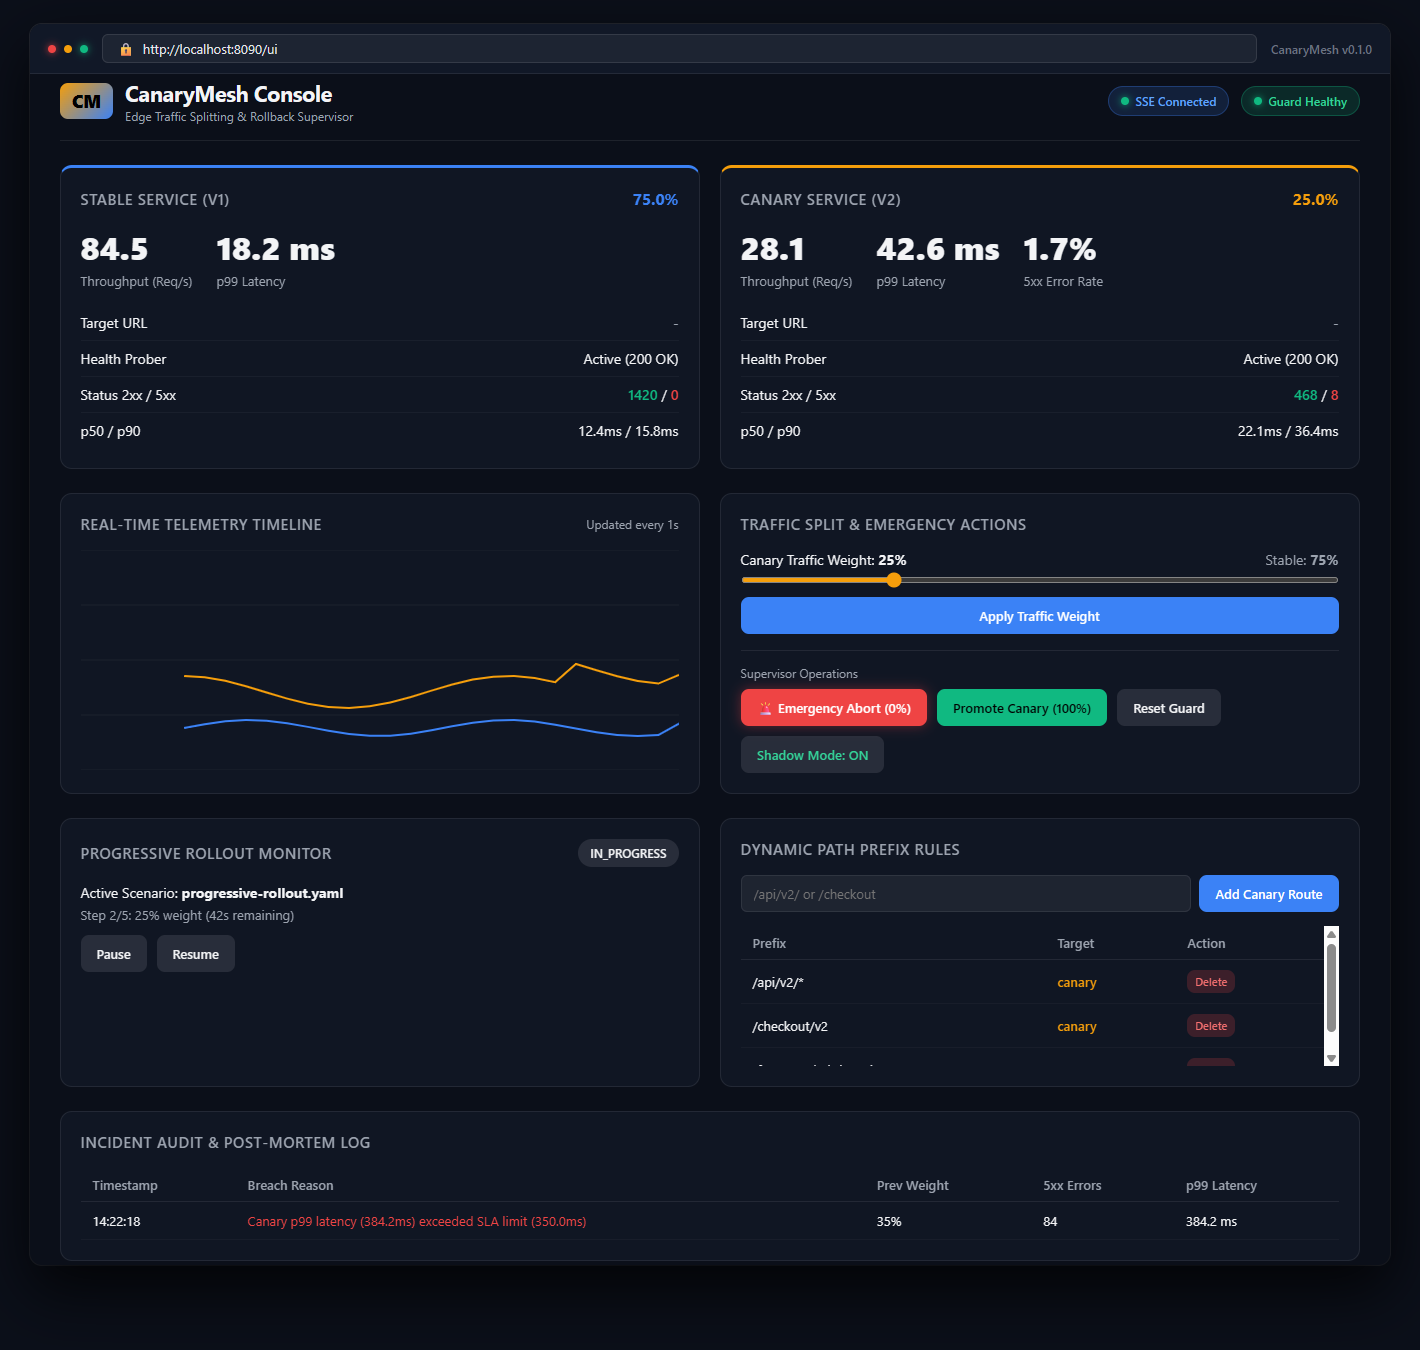
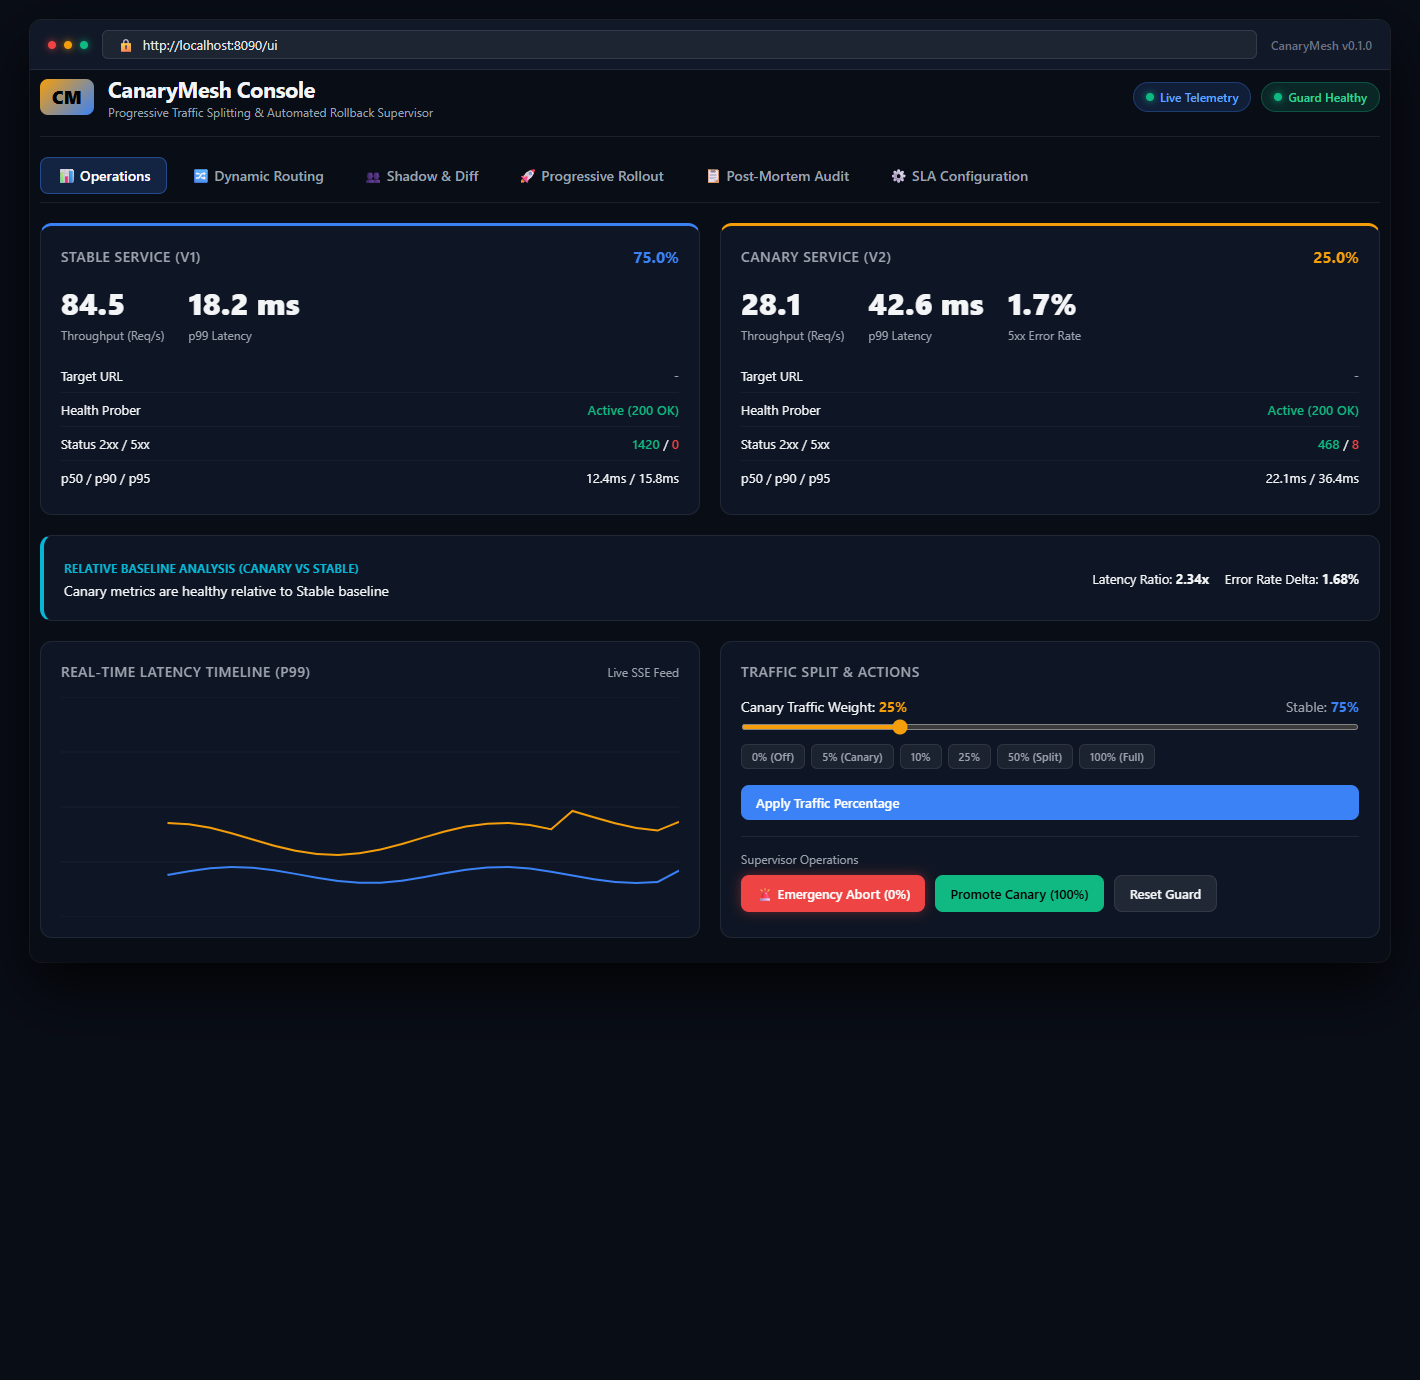
docs: update architecture, cli-reference, routing, and refresh ui screenshots

diff --git a/scripts/generate_web_console_shot.py b/scripts/generate_web_console_shot.py
@@ -9,10 +9,8 @@ STATIC_HTML = BASE_DIR / "src" / "canarymesh" / "api" / "static" / "index.html"
 OUT_FILE = BASE_DIR / "docs" / "images" / "web_console.png"
 TEMP_HTML = BASE_DIR / "docs" / "images" / "temp_console.html"
 
-# Read original index.html
 raw_html = STATIC_HTML.read_text(encoding="utf-8")
 
-# Create standalone version with pre-baked real telemetry and browser chrome frame
 chart_points_js = """
     for (let i = 0; i < 24; i++) {
       historyPoints.push({
@@ -21,16 +19,7 @@ chart_points_js = """
         errRate: i > 18 ? 2.1 : 0.4
       });
     }
-    
-    // Populate active rules
-    const rulesTbody = document.querySelector('#rulesTable tbody');
-    rulesTbody.innerHTML = `
-      <tr><td><code>/api/v2/*</code></td><td><span style="color: var(--accent-yellow); font-weight:600;">canary</span></td><td><button style="padding: 4px 8px; font-size: 11px; background: rgba(239,68,68,0.2); color: #f87171;">Delete</button></td></tr>
-      <tr><td><code>/checkout/v2</code></td><td><span style="color: var(--accent-yellow); font-weight:600;">canary</span></td><td><button style="padding: 4px 8px; font-size: 11px; background: rgba(239,68,68,0.2); color: #f87171;">Delete</button></td></tr>
-      <tr><td><code>/features/dark-launch</code></td><td><span style="color: var(--accent-yellow); font-weight:600;">canary</span></td><td><button style="padding: 4px 8px; font-size: 11px; background: rgba(239,68,68,0.2); color: #f87171;">Delete</button></td></tr>
-    `;
 
-    // Populate active telemetry
     applyTelemetryData({
       canary_weight: 25.0,
       telemetry: {
@@ -39,6 +28,11 @@ chart_points_js = """
       },
       guard: {
         state: 'HEALTHY',
+        comparative: {
+          summary: 'Canary metrics are healthy relative to Stable baseline',
+          latency_ratio: 2.34,
+          error_diff_percent: 1.68
+        },
         recent_trips: [
           {
             timestamp: "2026-09-10T14:22:18.000Z",
@@ -54,19 +48,21 @@ chart_points_js = """
         scenario_name: 'progressive-rollout.yaml',
         total_steps: 5,
         current_step: { step_number: 2, weight: 25.0, remaining_seconds: 42 }
+      },
+      shadow: {
+        enabled: true,
+        shadow_percentage: 100,
+        total_shadowed_requests: 1240,
+        total_shadow_errors: 12,
+        parity_rate_percent: 99.0
       }
     });
 
-    document.getElementById('shadowToggleBtn').innerText = 'Shadow Mode: ON';
-    document.getElementById('shadowToggleBtn').style.borderColor = 'var(--accent-green)';
-    document.getElementById('shadowToggleBtn').style.color = '#34d399';
     drawChart();
 """
 
-# Replace init() call with standalone mock initialization
 modified_html = raw_html.replace("init();", chart_points_js)
 
-# Wrap in an elegant modern browser container
 styled_page = f"""<!DOCTYPE html>
 <html>
 <head>
@@ -84,7 +80,7 @@ styled_page = f"""<!DOCTYPE html>
       font-family: -apple-system, BlinkMacSystemFont, "Segoe UI", Roboto, sans-serif;
     }}
     .browser-frame {{
-      background: #0b0f19;
+      background: #090d16;
       border-radius: 12px;
       box-shadow: 0 25px 60px rgba(0,0,0,0.8), 0 0 0 1px rgba(255,255,255,0.1);
       overflow: hidden;
@@ -157,7 +153,7 @@ TEMP_HTML.write_text(styled_page, encoding="utf-8")
 cmd = [
     EDGE_PATH,
     "--headless=new",
-    "--window-size=1420,1350",
+    "--window-size=1420,1380",
     "--default-background-color=030712",
     f"--screenshot={OUT_FILE.resolve()}",
     TEMP_HTML.resolve().as_uri(),

diff --git a/docs/architecture.md b/docs/architecture.md
@@ -1,15 +1,15 @@
 # Architecture
 
-CanaryMesh operates as an edge reverse proxy and automated rollback controller. It inspects incoming HTTP requests, selects either the stable (v1) or canary (v2) upstream service, streams traffic without buffering payloads, and monitors upstream responses in real time.
+CanaryMesh operates as an edge reverse proxy and automated rollback controller. It inspects incoming HTTP and WebSocket requests, selects either the stable (v1) or canary (v2) upstream service, streams traffic without buffering payloads, and monitors upstream responses in real time.
 
 ```mermaid
 graph TD
-    Client[HTTP Client] -->|Request| Proxy[CanaryMesh Data Plane :8080]
+    Client[HTTP & WebSocket Client] -->|Request + W3C Tracing| Proxy[CanaryMesh Data Plane :8080]
     Proxy --> Router[Traffic Router]
     Router -->|Path / Weight / Headers / Cookie| Forwarder[Streaming Forwarder]
     Forwarder -->|Stable traffic| Stable[Upstream v1 Stable]
     Forwarder -->|Canary traffic| Canary[Upstream v2 Canary]
-    Forwarder -.->|Async Mirroring| Shadow[Traffic Shadow Engine]
+    Forwarder -.->|Async Mirroring + Diff| Shadow[Traffic Shadow & Diff Engine]
     Shadow -.->|Duplicate Request| Canary
     
     Forwarder -->|Status & Latency| Telemetry[Sliding-Window Telemetry 60s]
@@ -17,8 +17,8 @@ graph TD
     Prober[Active Health Prober] -->|/healthz Checks| Stable
     Prober -->|/healthz Checks| Canary
     Prober -->|Heartbeat Failure| Guard
-    Guard -->|SLA Breach Detected| Router
-    Guard -->|Incident Alert| Webhook[Alert Dispatcher: Discord / Slack / Webhook]
+    Guard -->|Absolute or Relative SLA Breach| Router
+    Guard -->|Incident Alert| Webhook[Alert Dispatcher: Discord / Slack / Telegram / PagerDuty / Webhook]
     Guard -->|Generate Report| PostMortem[Post-Mortem Engine: Markdown]
     
     API[Control Plane API :8090] --> Router
@@ -32,43 +32,41 @@ graph TD
 
 ### Data plane
 
-The data plane listens on port 8080 by default. It uses an asynchronous streaming client built with HTTPX. Because requests and responses stream directly between the client and upstream targets, memory consumption remains flat regardless of body size.
+The data plane listens on port 8080 by default. It uses an asynchronous streaming client built with HTTPX and native WebSocket forwarding. Because requests and responses stream directly between the client and upstream targets, memory consumption remains flat regardless of payload size.
 
-The proxy strips standard hop-by-hop headers, including `connection`, `transfer-encoding`, and `keep-alive`, before forwarding. It appends standard proxy headers (`X-Forwarded-For`, `X-Forwarded-Proto`) and an identification header (`X-Canary-Routed`).
+The proxy strips standard hop-by-hop headers, including `connection`, `transfer-encoding`, `keep-alive`, and `content-length` for chunked streams, before forwarding. It propagates standard proxy headers (`X-Forwarded-For`, `X-Forwarded-Proto`), an identification header (`X-Canary-Routed`), `X-Request-ID`, and standard W3C `traceparent` context.
 
-### Asynchronous traffic shadowing (dark launching)
+### Asynchronous traffic shadowing and response diffing
 
 When enabled, the proxy clones incoming client requests and mirrors them to the canary upstream asynchronously. 
-The client receives the response from the primary upstream immediately without waiting for the mirrored execution. The background response is consumed and recorded into shadow telemetry, allowing teams to test real production load without risking customer experience.
+The client receives the response from the primary upstream immediately without waiting for the mirrored execution. The background response is consumed and compared against the stable response, tracking response status matches and calculating a live **Response Parity Rate (%)**.
 
 ### Control plane and web operations console
 
 The control plane runs independently on port 8090. It provides:
-- REST management endpoints for weights, routing rules, shadow traffic, and incidents.
-- An embedded Web Operations Console at `/ui`, featuring live telemetry charts, weight controls, emergency abort triggers, and dynamic rule management.
+- REST management endpoints for weights, routing rules (path and header matchers), shadow diffing, SLA parameters, and incident post-mortems.
+- An embedded Web Operations Console at `/ui` with tabbed operations: Live Telemetry, Dynamic Routing Studio, Shadow & Diff Inspector, Rollout Workflow, Incident Post-Mortems, and SLA Configuration.
 - A Prometheus `/metrics` scraper target.
-- A Server-Sent Events stream (`/api/v1/canary/live`) broadcasting state and metrics every second.
+- A Server-Sent Events stream (`/api/v1/canary/live`) broadcasting state, comparative baseline metrics, and telemetry every second.
 
-Separating the control plane from the data plane prevents management traffic and metrics scraping from competing with client request processing.
+### Telemetry engine with reservoir sampling
 
-### Telemetry engine
+CanaryMesh tracks telemetry in a sliding 60-second window. The window consists of 1-second slots that record success counts (2xx, 3xx), client errors (4xx), server errors (5xx), and individual latency observations with reservoir sampling ($O(1)$ memory overhead).
 
-CanaryMesh tracks telemetry in a sliding 60-second window. The window consists of 1-second slots that record success counts (2xx, 3xx), client errors (4xx), server errors (5xx), and individual latency observations.
-
-Percentiles (p50, p90, p95, p99) and error percentages are calculated on demand from the active slots. Older slots are pruned during recording and snapshotting to keep memory use bounded.
+Percentiles (p50, p90, p95, p99) and relative degradation deltas are calculated on demand from the active slots. Older slots are pruned during recording and snapshotting to keep memory use bounded.
 
 ### Active health probing
 
 The health prober runs background polling against configured upstream health endpoints (e.g. `/healthz`). It tracks consecutive successes and failures:
 - If a canary node fails health checks consecutively, the prober flags it as unhealthy.
-- The rollback guard evaluates prober status and immediately trips a rollback if the canary becomes unreachable, avoiding having to wait for client traffic to fail.
+- The rollback guard evaluates prober status and immediately trips a rollback if the canary becomes unreachable.
 - The progressive rollout engine checks prober health before advancing each deployment stage.
 
 ### Rollback guard and incident post-mortem
 
-The rollback guard evaluates canary telemetry once per second. If the canary error rate or p99 latency exceeds configured thresholds over the active sample window, or if the active health prober detects failure, the guard trips.
+The rollback guard evaluates canary telemetry once per second against both absolute thresholds and relative degradation vs the Stable baseline.
 
 When tripped:
 1. Canary weight is immediately forced to 0%.
-2. Alerts are dispatched to configured channels (Discord Embeds, Slack Block Kit, or generic JSON webhooks).
-3. The Post-Mortem engine captures a snapshot of the telemetry at the exact moment of failure and generates a detailed incident markdown document in `incidents/inc-<id>.md`.
+2. Alerts are dispatched to configured channels (Discord Embeds, Slack Block Kit, Telegram Bot, PagerDuty Events v2, or generic JSON webhooks).
+3. The Post-Mortem engine captures a snapshot of the telemetry at the exact moment of failure and generates a detailed incident markdown document in `incidents/inc-<id>.md` available for direct download via the Web Console or API.

diff --git a/docs/telemetry-and-guard.md b/docs/telemetry-and-guard.md
@@ -1,61 +1,46 @@
 # Telemetry and automated rollback
 
-CanaryMesh tracks real-time response data using an in-memory sliding window and evaluates service level agreement (SLA) boundaries in the background.
+CanaryMesh tracks real-time response data using an in-memory sliding window with reservoir sampling and evaluates service level agreement (SLA) boundaries in the background.
 
 ## Telemetry collection
 
 Every HTTP exchange records response metrics immediately after headers are received from the upstream target:
 
 * Status category (2xx, 3xx, 4xx, 5xx)
-* Round-trip duration in milliseconds
+* Round-trip duration in milliseconds (sampled per second using Algorithm R reservoir sampling)
 * Upstream target name (stable or canary)
 
-Observations are placed into 1-second buckets inside a 60-second circular buffer. During each snapshot, data older than 60 seconds is discarded.
+Observations are placed into 1-second buckets inside a 60-second circular buffer. During each snapshot, data older than 60 seconds is pruned automatically.
 
 ### Computed metrics
 
 * **RPS**: Active requests divided by the window duration (60s).
 * **5xx error rate**: Percentage of 5xx responses out of all requests in the window.
-* **Latency quantiles**: Nearest-rank percentiles calculated over sorted latency observations: p50, p90, p95, and p99.
+* **Latency quantiles**: Nearest-rank percentiles calculated over bounded latency observations: p50, p90, p95, and p99.
+* **Comparative degradation**: Real-time ratio of Canary p99 to Stable baseline p99 and error rate difference.
 
 ## Rollback guard
 
-The rollback guard runs an asynchronous loop every second. It checks canary metrics against configured limits:
+The rollback guard runs an asynchronous loop every second. It checks canary metrics against both absolute limits and relative baseline degradation:
 
 | Parameter | Default | Description |
 | :--- | :--- | :--- |
 | `max_error_rate_percent` | `1.0%` | Maximum allowable 5xx server error rate |
 | `max_p99_latency_ms` | `350.0 ms` | Maximum allowable 99th percentile latency |
 | `min_sample_size` | `10` | Minimum requests required before checking boundaries |
+| `enable_relative_analysis`| `true` | Enable comparative regression checks against Stable baseline |
+| `max_relative_latency_ratio` | `2.0x` | Max ratio of Canary p99 to Stable p99 |
+| `max_relative_error_diff_percent`| `3.0%` | Max difference between Canary 5xx% and Stable 5xx% |
+| `enable_probation` | `false` | Enable automatic recovery into probation mode after cooldown |
 
 ### Tripping mechanism
 
 To avoid false alarms from single outliers during low traffic, the guard waits until `min_sample_size` requests appear in the window.
 
-When a threshold is exceeded:
+When an absolute or relative threshold is exceeded:
 
 1. Canary traffic is immediately set to `0.0%`.
 2. The guard state changes from `HEALTHY` to `TRIPPED`.
-3. An incident event is added to the internal audit log.
-4. An alert payload is sent to all configured webhooks.
-
-### Incident payload
-
-```json
-{
-  "event": "EMERGENCY_ROLLBACK",
-  "service": "canarymesh",
-  "timestamp": "2026-09-10T11:45:00.123456+00:00",
-  "reason": "Canary 5xx error rate (14.2%) exceeded threshold (1.0%)",
-  "previous_canary_weight": 25.0,
-  "current_canary_weight": 0.0,
-  "metrics": {
-    "total_requests": 28,
-    "status_2xx": 24,
-    "status_5xx": 4,
-    "error_rate_percent": 14.29,
-    "p99_ms": 32.5
-  },
-  "text": "[CanaryMesh Alert] Emergency Rollback Triggered: Canary 5xx error rate (14.2%) exceeded threshold (1.0%). Canary weight shifted from 25.0% to 0%."
-}
-```
+3. An incident event is recorded in memory and written to `incidents/inc-<id>.md`.
+4. Alert payloads are formatted and dispatched to all configured notification channels (Discord, Slack, Telegram, PagerDuty, or custom webhooks).
+5. The incident post-mortem markdown report can be downloaded directly from the Web Console or API.

diff --git a/docs/routing-strategies.md b/docs/routing-strategies.md
@@ -1,6 +1,6 @@
 # Routing strategies
 
-CanaryMesh determines the destination of each request using an ordered evaluation process.
+CanaryMesh determines the destination of each request using an ordered evaluation process across HTTP and WebSocket streams.
 
 ## Evaluation order
 
@@ -8,7 +8,7 @@ When a request arrives, CanaryMesh evaluates routing criteria in the following s
 
 1. **Path prefix rules**:
    If the request URL path starts with a registered path prefix (for example `/api/v2/*` or `/checkout`), the request routes to the designated target (`canary` or `stable`).
-   Path rules can be configured in the YAML file or added dynamically at runtime via the control API (`POST /api/v1/canary/rules/path`).
+   Path rules can be configured in settings or added dynamically at runtime via `POST /api/v1/canary/rules/path`.
 
 2. **Query parameter override**:
    If the query string contains `canary=true` or `canary=1`, the request goes to the canary service. If it contains `canary=false` or `canary=0`, it goes to the stable service.
@@ -17,7 +17,8 @@ When a request arrives, CanaryMesh evaluates routing criteria in the following s
    If the request header `X-Canary` is set to `true`, `1`, or `yes`, the request routes to the canary service. If set to `false`, `0`, or `no`, it routes to the stable service.
 
 4. **Pattern header rules**:
-   Custom rules configured in settings or YAML are evaluated against headers. For example, a rule matching `X-User-Group: beta-.*` directs matching traffic to the canary service.
+   Custom rules evaluated against request headers. For example, a regex rule matching `X-User-Group: beta-.*` or `X-Tier: internal` directs matching traffic to the canary service.
+   Header rules can be created dynamically via `POST /api/v1/canary/rules/header`.
 
 5. **Sticky cookie session**:
    If a `canary_session` cookie is present, CanaryMesh calculates a hash of the session string modulo 100. If the resulting bucket number is lower than the active canary weight percentage, the request goes to the canary service. Otherwise, it routes to stable.
@@ -35,9 +36,11 @@ bucket = int(hashlib.md5(session_id.encode("utf-8")).hexdigest(), 16) % 100
 
 When canary traffic increases from 10% to 25%, users assigned to buckets 0 through 9 remain on the canary service, while users in buckets 10 through 24 move from stable to canary. Users do not flap back and forth during weight changes.
 
-## Runtime dynamic path rules
+## Runtime dynamic routing rules
 
-You can add path prefix routing rules on the fly without restarting the proxy:
+### Path prefix rules
+
+Add a path prefix rule on the fly:
 
 ```bash
 curl -X POST http://localhost:8090/api/v1/canary/rules/path \
@@ -45,14 +48,25 @@ curl -X POST http://localhost:8090/api/v1/canary/rules/path \
   -d '{"path_prefix": "/checkout", "target": "canary"}'
 ```
 
-To view all active rules:
+### Header match rules
+
+Add a regex header match rule on the fly:
+
+```bash
+curl -X POST http://localhost:8090/api/v1/canary/rules/header \
+  -H "Content-Type: application/json" \
+  -d '{"header_name": "x-user-group", "header_pattern": "beta.*|qa-testers", "target": "canary"}'
+```
+
+### View active rules
 
 ```bash
 curl http://localhost:8090/api/v1/canary/rules
 ```
 
-To delete a rule:
+### Delete a rule
 
 ```bash
 curl -X DELETE http://localhost:8090/api/v1/canary/rules/path/<rule_id>
+curl -X DELETE http://localhost:8090/api/v1/canary/rules/header/<rule_id>
 ```

diff --git a/docs/cli-reference.md b/docs/cli-reference.md
@@ -1,6 +1,6 @@
 # CLI reference
 
-The `canarymesh` command-line interface provides operational commands to start the proxy, manage weights, inspect status, and run simulations.
+The `canarymesh` command-line interface provides operational commands to start the proxy, manage weights and routing rules, inspect incidents, and run simulations.
 
 ## Commands
 
@@ -23,10 +23,14 @@ Options:
 * `--control-host`: Listening host for management REST API. Default: `0.0.0.0`.
 * `--scenario`: Path to progressive rollout YAML scenario file.
 * `--dashboard, -d`: Launch the interactive split-screen Rich terminal user interface.
+* `--shadow`: Enable dark launch traffic shadowing to Canary.
+* `--shadow-percent`: Shadow traffic percentage (1-100). Default: `100.0`.
 * `--max-error-rate`: Error rate threshold percentage for automated rollback. Default: `1.0`.
 * `--max-p99-ms`: 99th percentile latency threshold in milliseconds. Default: `350.0`.
 * `--min-samples`: Minimum requests required before evaluating SLA. Default: `10`.
-* `--webhook`: Webhook endpoint for alert notifications. Can be specified multiple times.
+* `--relative-ratio`: Max allowed Canary/Stable p99 latency ratio. Default: `2.0`.
+* `--relative-err-diff`: Max allowed Canary - Stable 5xx% difference. Default: `3.0`.
+* `--webhook`: Webhook notification URLs (Discord, Slack, Telegram, PagerDuty, or custom). Can be specified multiple times.
 
 ### `canarymesh set-weight`
 
@@ -60,9 +64,37 @@ Queries and displays active runtime metrics, weights, and guard state.
 canarymesh status --control-url http://127.0.0.1:8090
 ```
 
+### `canarymesh rules`
+
+Lists all active dynamic path prefix and header match routing rules.
+
+```bash
+canarymesh rules --control-url http://127.0.0.1:8090
+```
+
+### `canarymesh incidents`
+
+Lists all recorded automated rollback incidents or displays a specific post-mortem markdown report.
+
+```bash
+# List all incidents
+canarymesh incidents --control-url http://127.0.0.1:8090
+
+# View specific post-mortem report
+canarymesh incidents inc-07ca7209 --control-url http://127.0.0.1:8090
+```
+
+### `canarymesh validate-scenario`
+
+Validates YAML rollout scenario file syntax, steps, and durations before execution.
+
+```bash
+canarymesh validate-scenario scenarios/progressive-rollout.yaml
+```
+
 ### `canarymesh mock`
 
-Starts mock v1 (stable) and v2 (canary) servers for testing.
+Starts mock v1 (stable) and v2 (canary) servers for testing with optional fault injection.
 
 ```bash
 canarymesh mock --port-v1 8081 --port-v2 8082 --inject-errors --error-rate 25
